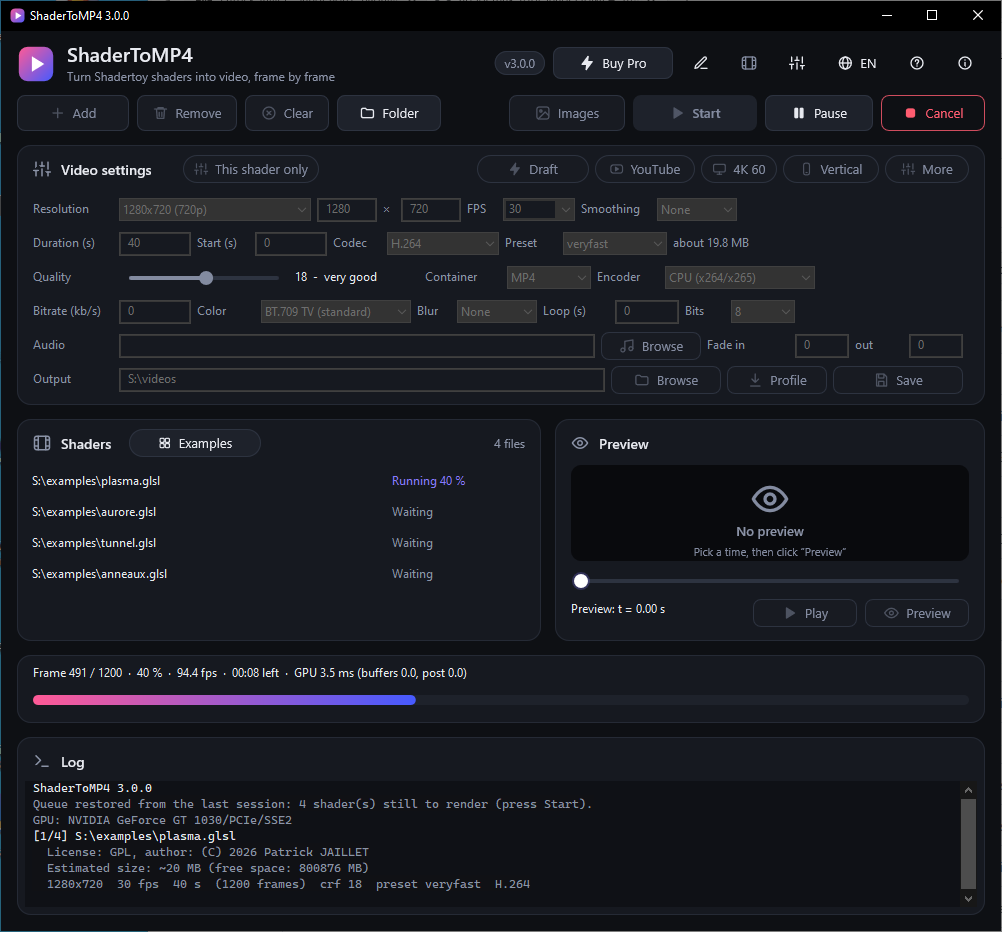
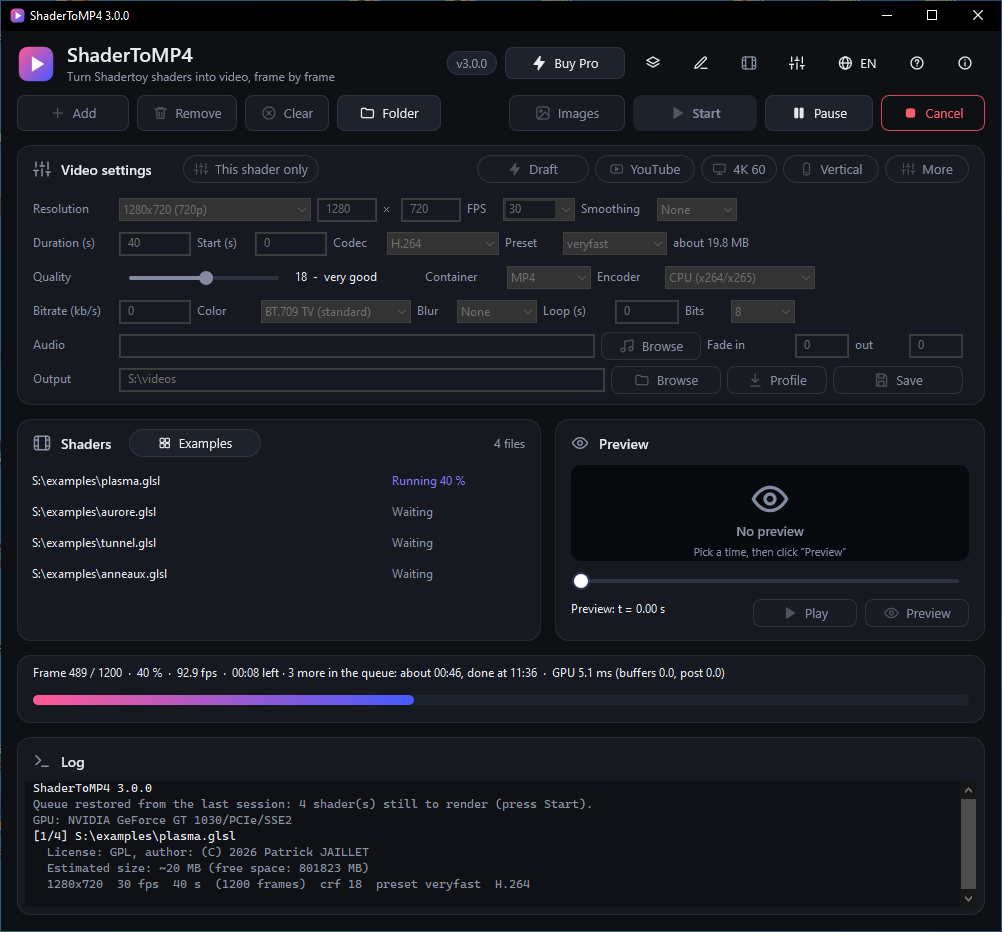
Documentation, aide et captures des projets, de la file de travaux, de l'historique, des outils d'apercu et des raccourcis

diff --git a/docs/index.html b/docs/index.html
@@ -114,6 +114,12 @@
         <div class="card"><h3 data-lang="en">Shadertoy and more</h3><h3 data-lang="fr">Shadertoy et plus</h3>
           <p data-lang="en">Textures, buffers, sound pass, mouse, VR; animated parameters, post-processing, HDR and transparency, montage of several shaders, and an editor for the shader and its passes.</p>
           <p data-lang="fr">Textures, tampons, passe son, souris, VR ; paramètres animés, post-traitement, HDR et transparence, montage de plusieurs shaders, et un éditeur pour le shader et ses passes.</p></div>
+        <div class="card"><h3 data-lang="en">Projects and queue</h3><h3 data-lang="fr">Projets et file de travaux</h3>
+          <p data-lang="en">Projects (.s2mproj) that move with their folder, a job queue you can reorder while it runs, priorities, a log per job, the estimated end of the whole queue, a render history that redoes a render with the same settings.</p>
+          <p data-lang="fr">Des projets (.s2mproj) qui se déplacent avec leur dossier, une file de travaux réordonnable pendant le rendu, des priorités, un journal par travail, la fin estimée de toute la file, un historique qui refait un rendu avec les mêmes réglages.</p></div>
+        <div class="card"><h3 data-lang="en">Preview tools and shortcuts</h3><h3 data-lang="fr">Outils d'aperçu et raccourcis</h3>
+          <p data-lang="en">Zoom, A/B comparison with a frozen image, histogram, waveform and vectorscope; shortcuts you can change (keys.ini) and a command palette (Ctrl+K).</p>
+          <p data-lang="fr">Zoom, comparaison A/B avec une image figée, histogramme, forme d'onde et vectorscope ; des raccourcis modifiables (keys.ini) et une palette de commandes (Ctrl+K).</p></div>
         <div class="card"><h3 data-lang="en">Easy to start</h3><h3 data-lang="fr">Facile à prendre en main</h3>
           <p data-lang="en">A guided tour at the first launch, a built-in help (F1), sixty example shaders with explanations, and plain-language explanations of compile errors.</p>
           <p data-lang="fr">Une visite guidée au premier lancement, une aide intégrée (F1), soixante shaders d'exemple commentés, et des erreurs de compilation expliquées en clair.</p></div>
@@ -148,6 +154,14 @@
           <figcaption data-lang="en">The built-in help (F1): windows, Shadertoy passes, glossary, troubleshooting.</figcaption><figcaption data-lang="fr">L'aide intégrée (F1) : fenêtres, passes Shadertoy, glossaire, dépannage.</figcaption></figure>
         <figure><img data-shot="tour" src="screenshots/en/tour.png" alt="" loading="lazy">
           <figcaption data-lang="en">The guided tour of the first launch: five steps, skippable.</figcaption><figcaption data-lang="fr">La visite guidée du premier lancement : cinq étapes, qu'on peut passer.</figcaption></figure>
+        <figure><img data-shot="project-menu" src="screenshots/en/project-menu.png" alt="" loading="lazy">
+          <figcaption data-lang="en">The Project menu: projects, render history, preview tools, command palette.</figcaption><figcaption data-lang="fr">Le menu Projet : projets, historique des rendus, outils d'aperçu, palette de commandes.</figcaption></figure>
+        <figure><img data-shot="palette" src="screenshots/en/palette.png" alt="" loading="lazy">
+          <figcaption data-lang="en">The command palette (Ctrl+K): any command in a few letters.</figcaption><figcaption data-lang="fr">La palette de commandes (Ctrl+K) : n'importe quelle commande en quelques lettres.</figcaption></figure>
+        <figure><img data-shot="history" src="screenshots/en/history.png" alt="" loading="lazy">
+          <figcaption data-lang="en">The render history: redo a render with the same settings.</figcaption><figcaption data-lang="fr">L'historique des rendus : refaire un rendu avec les mêmes réglages.</figcaption></figure>
+        <figure><img data-shot="scopes" src="screenshots/en/scopes.png" alt="" loading="lazy">
+          <figcaption data-lang="en">Scopes: histogram, waveform and vectorscope of the displayed image.</figcaption><figcaption data-lang="fr">Oscilloscopes : histogramme, forme d'onde et vectorscope de l'image affichée.</figcaption></figure>
         <figure><img data-shot="editor" src="screenshots/en/editor.png" alt="" loading="lazy">
           <figcaption data-lang="en">The shader editor, with its passes and error lines.</figcaption><figcaption data-lang="fr">L'éditeur de shader, avec ses passes et les lignes d'erreur.</figcaption></figure>
       </div>

diff --git a/README.fr.md b/README.fr.md
@@ -89,6 +89,25 @@ Un seul programme portable pour **Windows** (rien à installer ; un **installeur
   <sub>La <b>visite guidée</b> du premier lancement : cinq étapes, qu'on peut passer, et qu'on retrouve dans la fenêtre d'aide.</sub>
 </p>
 
+<table>
+  <tr>
+    <td width="50%"><a href="docs/screenshots/fr/project-menu.png"><img src="docs/screenshots/fr/project-menu.png" alt="Le menu Projet"></a></td>
+    <td width="50%"><a href="docs/screenshots/fr/palette.png"><img src="docs/screenshots/fr/palette.png" alt="Palette de commandes"></a></td>
+  </tr>
+  <tr>
+    <td align="center"><sub>Le menu <b>Projet</b> (bouton « couches ») : projets, projets récents, historique des rendus, outils d'aperçu, palette de commandes, raccourcis.</sub></td>
+    <td align="center"><sub>La <b>palette de commandes</b> (<code>Ctrl+K</code>) : tapez quelques lettres, appuyez sur Entrée.</sub></td>
+  </tr>
+  <tr>
+    <td width="50%"><a href="docs/screenshots/fr/history.png"><img src="docs/screenshots/fr/history.png" alt="Historique des rendus"></a></td>
+    <td width="50%"><a href="docs/screenshots/fr/scopes.png"><img src="docs/screenshots/fr/scopes.png" alt="Oscilloscopes"></a></td>
+  </tr>
+  <tr>
+    <td align="center"><sub>L'<b>historique des rendus</b> : <i>Refaire ce rendu</i> reprend les mêmes réglages.</sub></td>
+    <td align="center"><sub>Les <b>oscilloscopes</b> : histogramme, forme d'onde et vectorscope de l'image affichée.</sub></td>
+  </tr>
+</table>
+
 <p align="center">
   <a href="docs/screenshots/fr/about.png"><img src="docs/screenshots/fr/about.png" alt="Fenêtre À propos" width="420"></a><br>
   <sub>La fenêtre « À propos » (bouton <code>i</code>) : version, copyright, licence, contact et site web. Le bouton globe change la langue instantanément.</sub>
@@ -139,6 +158,21 @@ Le dossier [`examples/gallery`](examples/gallery) contient **soixante shaders or
 - **macOS** : 10.13 ou plus récent. L'archive est signée « ad hoc », non notariée : au premier lancement, clic droit sur `ShaderToMP4.app` puis *Ouvrir* (ou `xattr -dr com.apple.quarantine ShaderToMP4.app`). Les réglages sont écrits dans le dossier qui contient le `.app` : garde-le dans un dossier où tu peux écrire (pas `/Applications`).
 
 ## Fonctions
+
+<details>
+<summary><b>Projets, file de travaux, historique, outils d'aperçu et raccourcis</b></summary>
+
+**Projets.** Le bouton « couches » en haut à droite ouvre le menu **Projet** : *Nouveau*, *Ouvrir*, *Enregistrer*, *Enregistrer sous* et *Projets récents*. Un projet est un fichier `.s2mproj` (JSON écrit par le programme) qui retient la liste des shaders, les réglages généraux, ceux de chaque shader (« Ce shader seul »), les lots, les priorités, et les passes et médias que chaque shader utilise. Les chemins situés dans le dossier du projet sont notés en **relatif** : tout le dossier peut être déplacé ou copié ; un fichier absent à l'ouverture est signalé dans le journal. Un projet se dépose sur la fenêtre ou se donne en ligne de commande (`ShaderToMP4.exe projet.s2mproj` l'ouvre sans lancer de rendu). Le format porte un numéro de version : un ancien fichier est migré, un fichier fait par une version plus récente est refusé avec un message, et un fichier abîmé est refusé sans plantage (le lecteur est soumis au fuzzing, cible `project`).
+
+**File de travaux.** La liste des shaders est la file. Glissez une ligne (ou `Alt+Haut` / `Alt+Bas`) pour la réordonner — **aussi pendant un rendu** : le travail suivant suit toujours la liste. Clic droit : *Suspendre / reprendre ce travail* (un travail suspendu est mis de côté, statut « Suspendu »), *Priorité* (les travaux de haute priorité passent avant les autres, ceux de basse priorité après, l'ordre de la liste sinon) et *Journal de ce travail* (chaque travail écrit son propre `jobs/logs/<nom>.log`, avec les seules lignes de ce travail). Pendant un rendu, la barre d'état donne aussi la **fin estimée de toute la file** (travaux restants, durée et heure, d'après la vitesse mesurée).
+
+**Historique des rendus.** `Ctrl+H` (ou le menu Projet) liste chaque rendu terminé : date, shader, résultat, durée et fichier produit. *Refaire ce rendu* le refait **avec les réglages qu'il avait** (un fichier identique, octet pour octet, avec une vidéo sans perte). L'historique est `history.jsonl` dans le dossier du programme (2000 lignes au plus, écrit aussi par `--render`) ; rien n'est envoyé nulle part.
+
+**Outils d'aperçu.** Dans l'aperçu, la molette zoome autour du curseur, glisser déplace l'image agrandie, `Ctrl+0` ajuste à la fenêtre et `Ctrl+1` montre les pixels réels. *Figer* (`Ctrl+Maj+F`) garde l'image affichée : l'aperçu suivant (après une modification du shader, par exemple) s'affiche à côté avec un rideau à glisser, une **comparaison A/B**. *Oscilloscopes* (`Ctrl+Maj+V`) ouvre l'**histogramme**, la **forme d'onde** et le **vectorscope** de l'image affichée, avec un résumé en texte (luminance minimale, maximale et moyenne, noirs et blancs écrêtés).
+
+**Raccourcis et palette de commandes.** `Ctrl+K` ouvre la **palette de commandes** : tapez quelques lettres d'une commande (sans tenir compte de la casse ni des accents) et appuyez sur Entrée. Les raccourcis sont indiqués dans les menus et se changent dans `keys.ini`, à côté du programme (menu *Modifier les raccourcis*, puis *Recharger les raccourcis*) : une ligne `action=raccourci` (`Ctrl+Shift+K`, `F5`, `Esc`...), une valeur vide retire un raccourci, et un raccourci déjà pris par une autre commande est refusé (le journal dit quelle ligne). `F1` ouvre toujours l'aide de la fenêtre en cours.
+
+</details>
 
 <details>
 <summary><b>Les boutons et les raccourcis</b></summary>
@@ -441,6 +475,7 @@ Tirées de [CHANGELOG.fr.md](CHANGELOG.fr.md), qui donne le détail ; la liste e
 
 | Version | Principaux ajouts |
 |---|---|
+| Non publié | Projets (`.s2mproj` : shaders, réglages généraux et par shader, lots, priorités, passes et médias, chemins relatifs, projets récents) ; file de travaux réordonnable en direct (glisser ou `Alt+Haut/Bas`, suspension, priorité, un journal par travail, fin estimée de toute la file) ; historique des rendus (`history.jsonl`, *Refaire ce rendu* avec les mêmes réglages) ; zoom et déplacement dans l'aperçu, image figée avec comparaison A/B, histogramme / forme d'onde / vectorscope ; raccourcis configurables (`keys.ini`) et palette de commandes (`Ctrl+K`) |
 | 3.0.0 | Édition Pro : scènes 3D (maillages OBJ / PLY / glTF, caméra, profondeur, instances, ombres, réflexions, calcul GPU, aperçu avec orbite à la souris) ; Linux et macOS gelés (la 2.1.1 est la dernière version avec eux), intégration continue Windows seulement ; infrastructure de l'édition Pro (rien de verrouillé dans l'édition libre) : `ShaderToMP4.license` signé et vérifié hors ligne, filigrane d'essai sur les sorties Pro sans licence, « Acheter Pro » (5, 10 ou 15 € par PayPal) et état de la licence dans « À propos », `--license-info` |
 | 2.1.1 | Normalisation du son à gain constant (le volume ne monte plus ni ne descend) ; OpenEXR multicouche écrit par le programme (couleur HDR, profondeur, normale, id, alpha, mouvement estimé), alpha droit ou prémultiplié, TIFF flottant, DPX, carte de profondeur 16 bits ; mode effet : le shader appliqué à des vidéos, images, séquences et dossiers (taille, cadence, durée, son, sous-titres et chapitres suivent la source), lecture à l'envers, 25 transitions entre deux sources avec `iProgress`, clés chroma / luminance / différence |
 | 2.1.0 | Installeur Windows (NSIS, par utilisateur, ffmpeg inclus, facultatif) |

diff --git a/README.md b/README.md
@@ -89,6 +89,25 @@ One portable program for **Windows** (nothing to install; an optional **installe
   <sub>The <b>guided tour</b> of the first launch: five steps, skippable, available again from the help window.</sub>
 </p>
 
+<table>
+  <tr>
+    <td width="50%"><a href="docs/screenshots/en/project-menu.png"><img src="docs/screenshots/en/project-menu.png" alt="The Project menu"></a></td>
+    <td width="50%"><a href="docs/screenshots/en/palette.png"><img src="docs/screenshots/en/palette.png" alt="Command palette"></a></td>
+  </tr>
+  <tr>
+    <td align="center"><sub>The <b>Project</b> menu (layers button): projects, recent projects, render history, preview tools, command palette, shortcuts.</sub></td>
+    <td align="center"><sub>The <b>command palette</b> (<code>Ctrl+K</code>): type a few letters, press Enter.</sub></td>
+  </tr>
+  <tr>
+    <td width="50%"><a href="docs/screenshots/en/history.png"><img src="docs/screenshots/en/history.png" alt="Render history"></a></td>
+    <td width="50%"><a href="docs/screenshots/en/scopes.png"><img src="docs/screenshots/en/scopes.png" alt="Scopes"></a></td>
+  </tr>
+  <tr>
+    <td align="center"><sub>The <b>render history</b>: <i>Redo this render</i> uses the same settings again.</sub></td>
+    <td align="center"><sub><b>Scopes</b>: histogram, waveform and vectorscope of the displayed image.</sub></td>
+  </tr>
+</table>
+
 <p align="center">
   <a href="docs/screenshots/en/about.png"><img src="docs/screenshots/en/about.png" alt="About window" width="420"></a><br>
   <sub>The “About” window (<code>i</code> button): version, copyright, license, contact and website. The globe button switches the language instantly.</sub>
@@ -139,6 +158,21 @@ The [`examples/gallery`](examples/gallery) folder holds **sixty original shaders
 - **macOS**: 10.13 or newer. The archive is signed ad hoc, not notarized: on first launch, right-click `ShaderToMP4.app` and choose *Open* (or run `xattr -dr com.apple.quarantine ShaderToMP4.app`). Settings are written in the folder that contains the `.app`, so keep it in a folder you can write to (not `/Applications`).
 
 ## Features
+
+<details>
+<summary><b>Projects, job queue, history, preview tools and shortcuts</b></summary>
+
+**Projects.** The layers button at the top right opens the **Project** menu: *New*, *Open*, *Save*, *Save as* and *Recent projects*. A project is a `.s2mproj` file (JSON written by the program) that remembers the list of shaders, the general settings, the settings of each shader (“This shader only”), the batches, the priorities, and the passes and media each shader uses. Paths inside the project folder are stored **relative**, so the whole folder can be moved or copied; a file that is missing when a project opens is listed in the log. A project can be dropped on the window or given on the command line (`ShaderToMP4.exe project.s2mproj` opens it without starting a render). The format has a version number: an older file is migrated, a file made by a newer version is refused with a message, and a damaged file is refused without crashing (the reader is fuzzed, target `project`).
+
+**Job queue.** The shader list is the queue. Drag a line (or `Alt+Up` / `Alt+Down`) to reorder it — **also while a render is running**: the next job always follows the list. Right click: *Hold / resume this job* (a held job is set aside, status “On hold”), *Priority* (high jobs render before the others, low ones last, the order of the list otherwise) and *Log of this job* (each job writes its own `jobs/logs/<name>.log`, with the lines of that job only). While a render runs, the status bar also gives the **estimated end of the whole queue** (jobs left, time and clock time, from the speed measured so far).
+
+**Render history.** `Ctrl+H` (or the Project menu) lists every finished render: date, shader, result, duration and output file. *Redo this render* renders it again **with the settings it used** (an identical file, byte for byte, with a lossless video). The history is `history.jsonl` in the program folder (at most 2000 lines, also written by `--render`); nothing is sent anywhere.
+
+**Preview tools.** In the preview, the mouse wheel zooms around the cursor, dragging moves the zoomed image, `Ctrl+0` fits the window and `Ctrl+1` shows real pixels. *Freeze* (`Ctrl+Shift+F`) keeps the displayed image: the next preview (after a change in the shader, for instance) is shown next to it with a draggable curtain, an **A/B comparison**. *Scopes* (`Ctrl+Shift+V`) opens the **histogram**, the **waveform** and the **vectorscope** of the displayed image, with a text summary (minimum, maximum and mean luma, clipped blacks and whites).
+
+**Shortcuts and command palette.** `Ctrl+K` opens the **command palette**: type a few letters of any command (no matter the case or the accents) and press Enter. The shortcuts are listed in the menus and can be changed in `keys.ini` next to the program (menu *Edit shortcuts*, then *Reload shortcuts*): one line `action=shortcut` (`Ctrl+Shift+K`, `F5`, `Esc`...), an empty value removes a shortcut, and a shortcut that is already taken by another command is refused (the log says which line). `F1` always opens the help of the current window.
+
+</details>
 
 <details>
 <summary><b>Buttons and keyboard shortcuts</b></summary>
@@ -441,6 +475,7 @@ Taken from [CHANGELOG.md](CHANGELOG.md), which has the details; the list is chec
 
 | Version | Main additions |
 |---|---|
+| Unreleased | Projects (`.s2mproj`: shaders, general and per-shader settings, batches, priorities, passes and media, relative paths, recent projects); live-reorderable job queue (drag or `Alt+Up/Down`, hold, priority, a log per job, estimated end of the whole queue); render history (`history.jsonl`, *Redo this render* with the same settings); preview zoom and pan, freeze with A/B comparison, histogram / waveform / vectorscope; configurable shortcuts (`keys.ini`) and command palette (`Ctrl+K`) |
 | 3.0.0 | Pro edition: 3D scenes (OBJ / PLY / glTF meshes, camera, depth, instances, shadows, reflections, GPU compute, preview with mouse orbit); Linux and macOS frozen (2.1.1 is the last version with them), Windows only continuous integration; Pro edition infrastructure (nothing locked in the free edition): signed `ShaderToMP4.license` checked offline, trial watermark on Pro outputs without a license, “Buy Pro” (5, 10 or 15 € by PayPal) and license status in “About”, `--license-info` |
 | 2.1.1 | Sound normalization with a constant gain (the volume no longer rises and falls); Multilayer OpenEXR written by the program (HDR colour, depth, normal, id, alpha, estimated motion), straight or premultiplied alpha, floating-point TIFF, DPX, 16-bit depth map; effect mode: the shader applied to videos, images, sequences and folders (size, rate, duration, sound, subtitles and chapters follow the source), playing backwards, 25 transitions between two sources with `iProgress`, chroma / luma / difference keys |
 | 2.1.0 | Windows installer (NSIS, per user, ffmpeg included, optional) |

diff --git a/CHANGELOG.fr.md b/CHANGELOG.fr.md
@@ -6,6 +6,21 @@
 
 Format : une section par version, la plus récente en premier. La section d'une version étiquetée est reprise dans les notes de version.
 
+## Non publié
+
+### Ajouté
+
+- **Projets** (`.s2mproj`) : la liste des shaders, les réglages généraux, ceux de chaque shader, les lots, les priorités, et les passes et médias de chaque shader, dans un fichier JSON écrit par le programme ; Nouveau, Ouvrir, Enregistrer, Enregistrer sous et Projets récents dans le nouveau menu **Projet** ; les chemins situés dans le dossier du projet sont relatifs, le dossier peut donc être déplacé ; un projet se dépose sur la fenêtre ou se donne en ligne de commande ; numéro de version du format avec migration de l'ancienne disposition, refus (sans plantage) d'un fichier plus récent ou abîmé, cible de fuzzing `project`.
+- **File de travaux** : réordonner en glissant ou avec `Alt+Haut` / `Alt+Bas`, aussi pendant un rendu (le travail suivant suit la liste) ; *Suspendre / reprendre* un travail ; **priorité** (haute, normale, basse) ; un **journal par travail** (`jobs/logs/`) ; **fin estimée de toute la file** dans la barre d'état ; nouveau statut « Suspendu ».
+- **Historique des rendus** (`history.jsonl`, 2000 lignes au plus, écrit aussi par `--render`) : date, shader, résultat, durée, sortie, empreinte du shader et des réglages ; fenêtre avec *Refaire ce rendu* (mêmes réglages, mêmes octets pour une vidéo sans perte) et *Ouvrir le dossier*.
+- **Outils d'aperçu** : zoom (molette) et déplacement, ajuster (`Ctrl+0`) et pixels réels (`Ctrl+1`) ; *Figer* pour une comparaison A/B avec l'aperçu suivant ; fenêtre des **oscilloscopes** (histogramme, forme d'onde, vectorscope, résumé en texte).
+- **Raccourcis configurables** (`keys.ini`, conflits et lignes invalides refusés et signalés) et **palette de commandes** (`Ctrl+K`, recherche sans casse ni accents) ; chaque commande a un nom dans les neuf langues.
+- Rubrique d'aide « Projets, file de travaux et raccourcis » ; `scripts/test-queue.ps1` pilote la fenêtre (priorité, suspension, échec, annulation, réordonnancement en direct, glisser à la souris, `Alt+Haut`, projet, raccourcis, palette, refaire un rendu) ; l'audit d'accessibilité couvre les nouvelles fenêtres.
+
+### Corrigé
+
+- Les réglages écrits pour « Ce shader seul » et l'historique notent maintenant `loudnorm=off` au lieu de `loudnorm=0`, relu comme une normalisation à −5 LUFS.
+
 ## 3.0.0 — 2026-10-23
 
 ### Modifié

diff --git a/CHANGELOG.md b/CHANGELOG.md
@@ -6,6 +6,21 @@
 
 Format: one section per version, newest first. The section of a tagged version is copied into the release notes.
 
+## Unreleased
+
+### Added
+
+- **Projects** (`.s2mproj`): the list of shaders, the general settings, the settings of each shader, the batches, the priorities, and the passes and media of each shader, in a JSON file written by the program; New, Open, Save, Save as and Recent projects in the new **Project** menu; paths inside the project folder are relative, so the folder can be moved; a project can be dropped on the window or given on the command line; format version with migration of the previous layout, refusal (without a crash) of a newer or damaged file, fuzzing target `project`.
+- **Job queue**: reorder by dragging or with `Alt+Up` / `Alt+Down`, also while a render runs (the next job follows the list); *Hold / resume* a job; **priority** (high, normal, low); one **log per job** (`jobs/logs/`); **estimated end of the whole queue** in the status bar; new status “On hold”.
+- **Render history** (`history.jsonl`, 2000 lines at most, also written by `--render`): date, shader, result, duration, output, hash of the shader and settings; window with *Redo this render* (same settings, same bytes for a lossless video) and *Show in folder*.
+- **Preview tools**: zoom (mouse wheel) and pan, fit (`Ctrl+0`) and real pixels (`Ctrl+1`); *Freeze* for an A/B comparison with the next preview; **scopes** window (histogram, waveform, vectorscope, text summary).
+- **Configurable shortcuts** (`keys.ini`, conflicts and invalid lines refused and reported) and **command palette** (`Ctrl+K`, search without case or accents); every command has a name in the nine languages.
+- Help topic “Projects, queue and shortcuts”; `scripts/test-queue.ps1` drives the window (priority, hold, failure, cancellation, live reordering, mouse drag, `Alt+Up`, project, shortcuts, palette, history redo); the accessibility audit covers the new windows.
+
+### Fixed
+
+- The settings written for “This shader only” and the history now store `loudnorm=off` instead of `loudnorm=0`, which was read back as a −5 LUFS normalisation.
+
 ## 3.0.0 — 2026-10-23
 
 ### Changed

diff --git a/BUILD.fr.md b/BUILD.fr.md
@@ -106,6 +106,7 @@ Il vérifie les en-têtes de licence (`SPDX-License-Identifier` et la ligne de c
 | `scripts\soak-test.ps1` | un seul processus rend des vidéos en parties et en parallèle pendant `-Minutes` minutes pendant que les descripteurs et la mémoire sont relevés |
 | `scripts\make-sbom.ps1` | nomenclature logicielle (SPDX 2.3) d'après `scripts\components.json` |
 | `scripts\check-vulnerabilities.ps1` | interroge la base NVD sur les vulnérabilités connues des composants tiers livrés (réseau) |
+| `scripts\test-queue.ps1` | pilote la vraie fenêtre : priorité, suspension, échec, annulation, réordonnancement en direct, glisser à la souris, `Alt+Haut`, fichier projet, `keys.ini`, palette de commandes, refaire un rendu depuis l'historique (ne touchez ni à la souris ni au clavier ; deux minutes environ) |
 | `scripts\verify-portable.ps1`, `verify-installer.ps1` | le programme ne crée aucun fichier ni clé de registre hors de son dossier pendant une vraie session ; l'installeur est essayé en silence (installation, mise à jour, refus, désinstallation, traces laissées) |
 
 Gardez `scripts\components.json` et `THIRD_PARTY_NOTICES.md` (et `.fr.md`) d'accord quand un composant est ajouté.

diff --git a/BUILD.md b/BUILD.md
@@ -106,6 +106,7 @@ It checks the license headers (`SPDX-License-Identifier` and the copyright line 
 | `scripts\soak-test.ps1` | one process renders chunked videos in parallel for `-Minutes` minutes while handles and memory are sampled |
 | `scripts\make-sbom.ps1` | software bill of materials (SPDX 2.3) from `scripts\components.json` |
 | `scripts\check-vulnerabilities.ps1` | asks the NVD for the known vulnerabilities of the shipped third-party components (network) |
+| `scripts\test-queue.ps1` | drives the real window: priority, hold, failure, cancellation, live reordering, mouse drag, `Alt+Up`, project file, `keys.ini`, command palette, redo from the history (do not touch the mouse or keyboard; about two minutes) |
 | `scripts\verify-portable.ps1`, `verify-installer.ps1` | the program creates no file and no registry key outside its own folder during a real session; the installer is tried silently (install, update, refusals, uninstall, traces left) |
 
 Keep `scripts\components.json` and `THIRD_PARTY_NOTICES.md` (and `.fr.md`) in step when a component is added.
